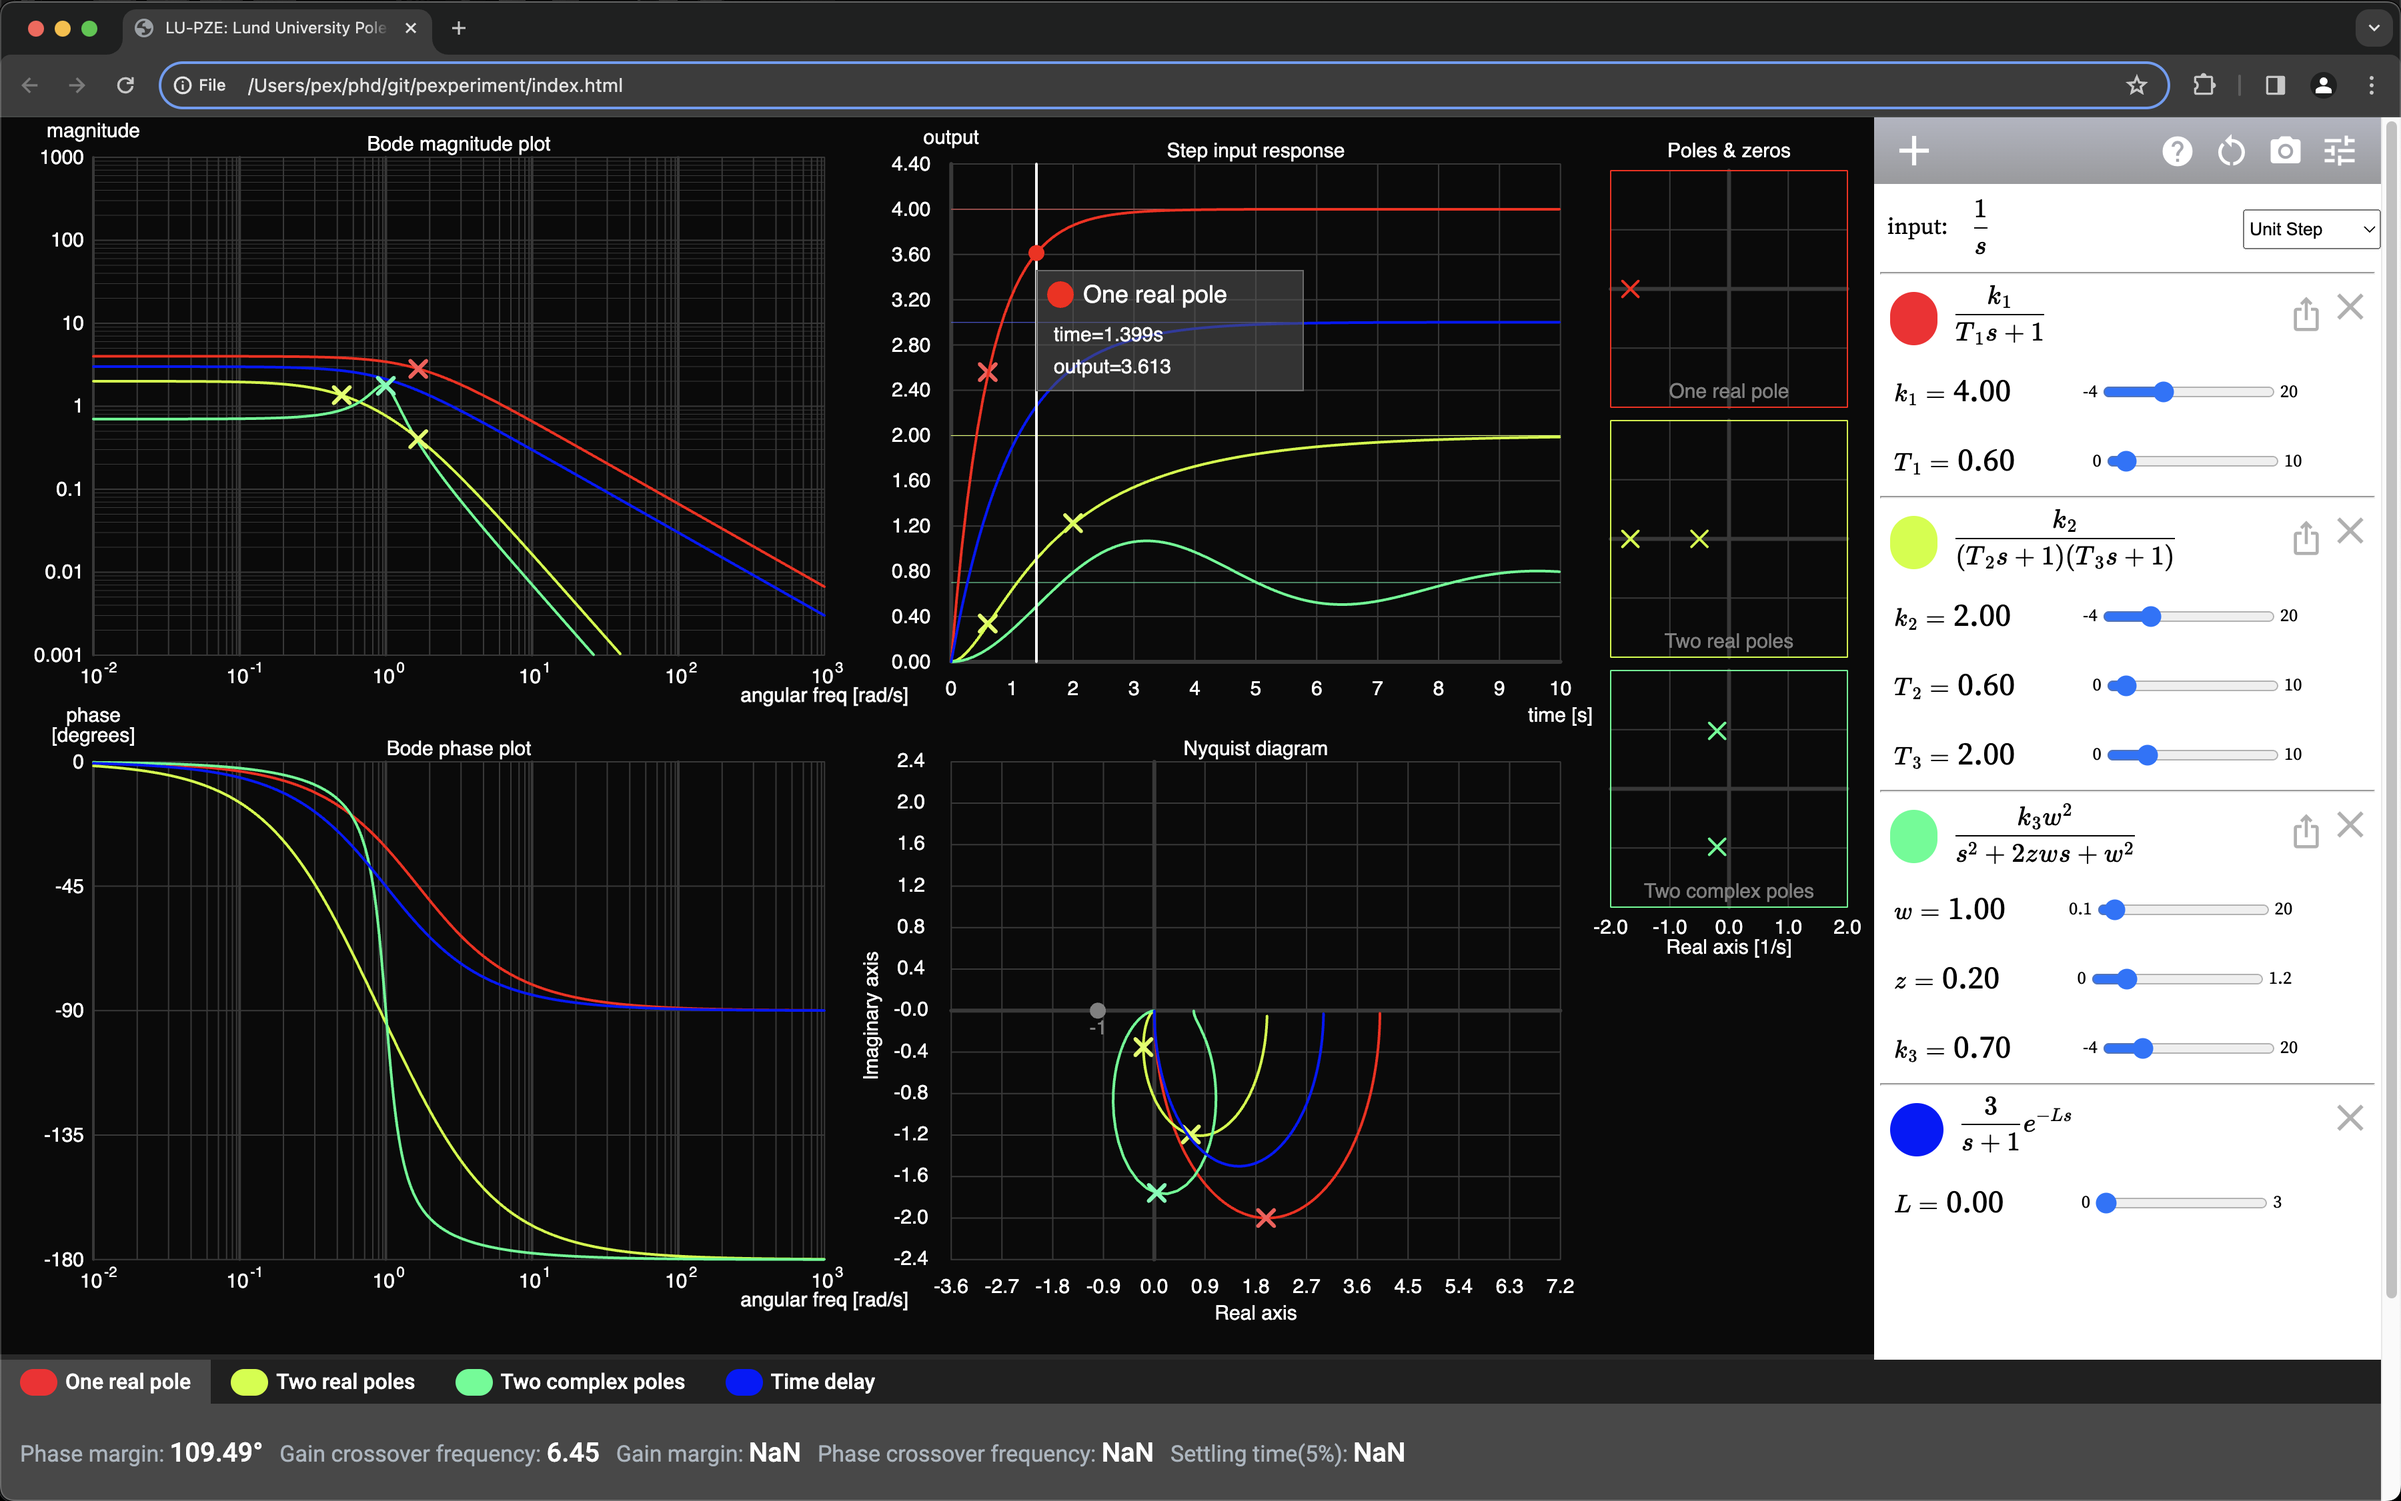
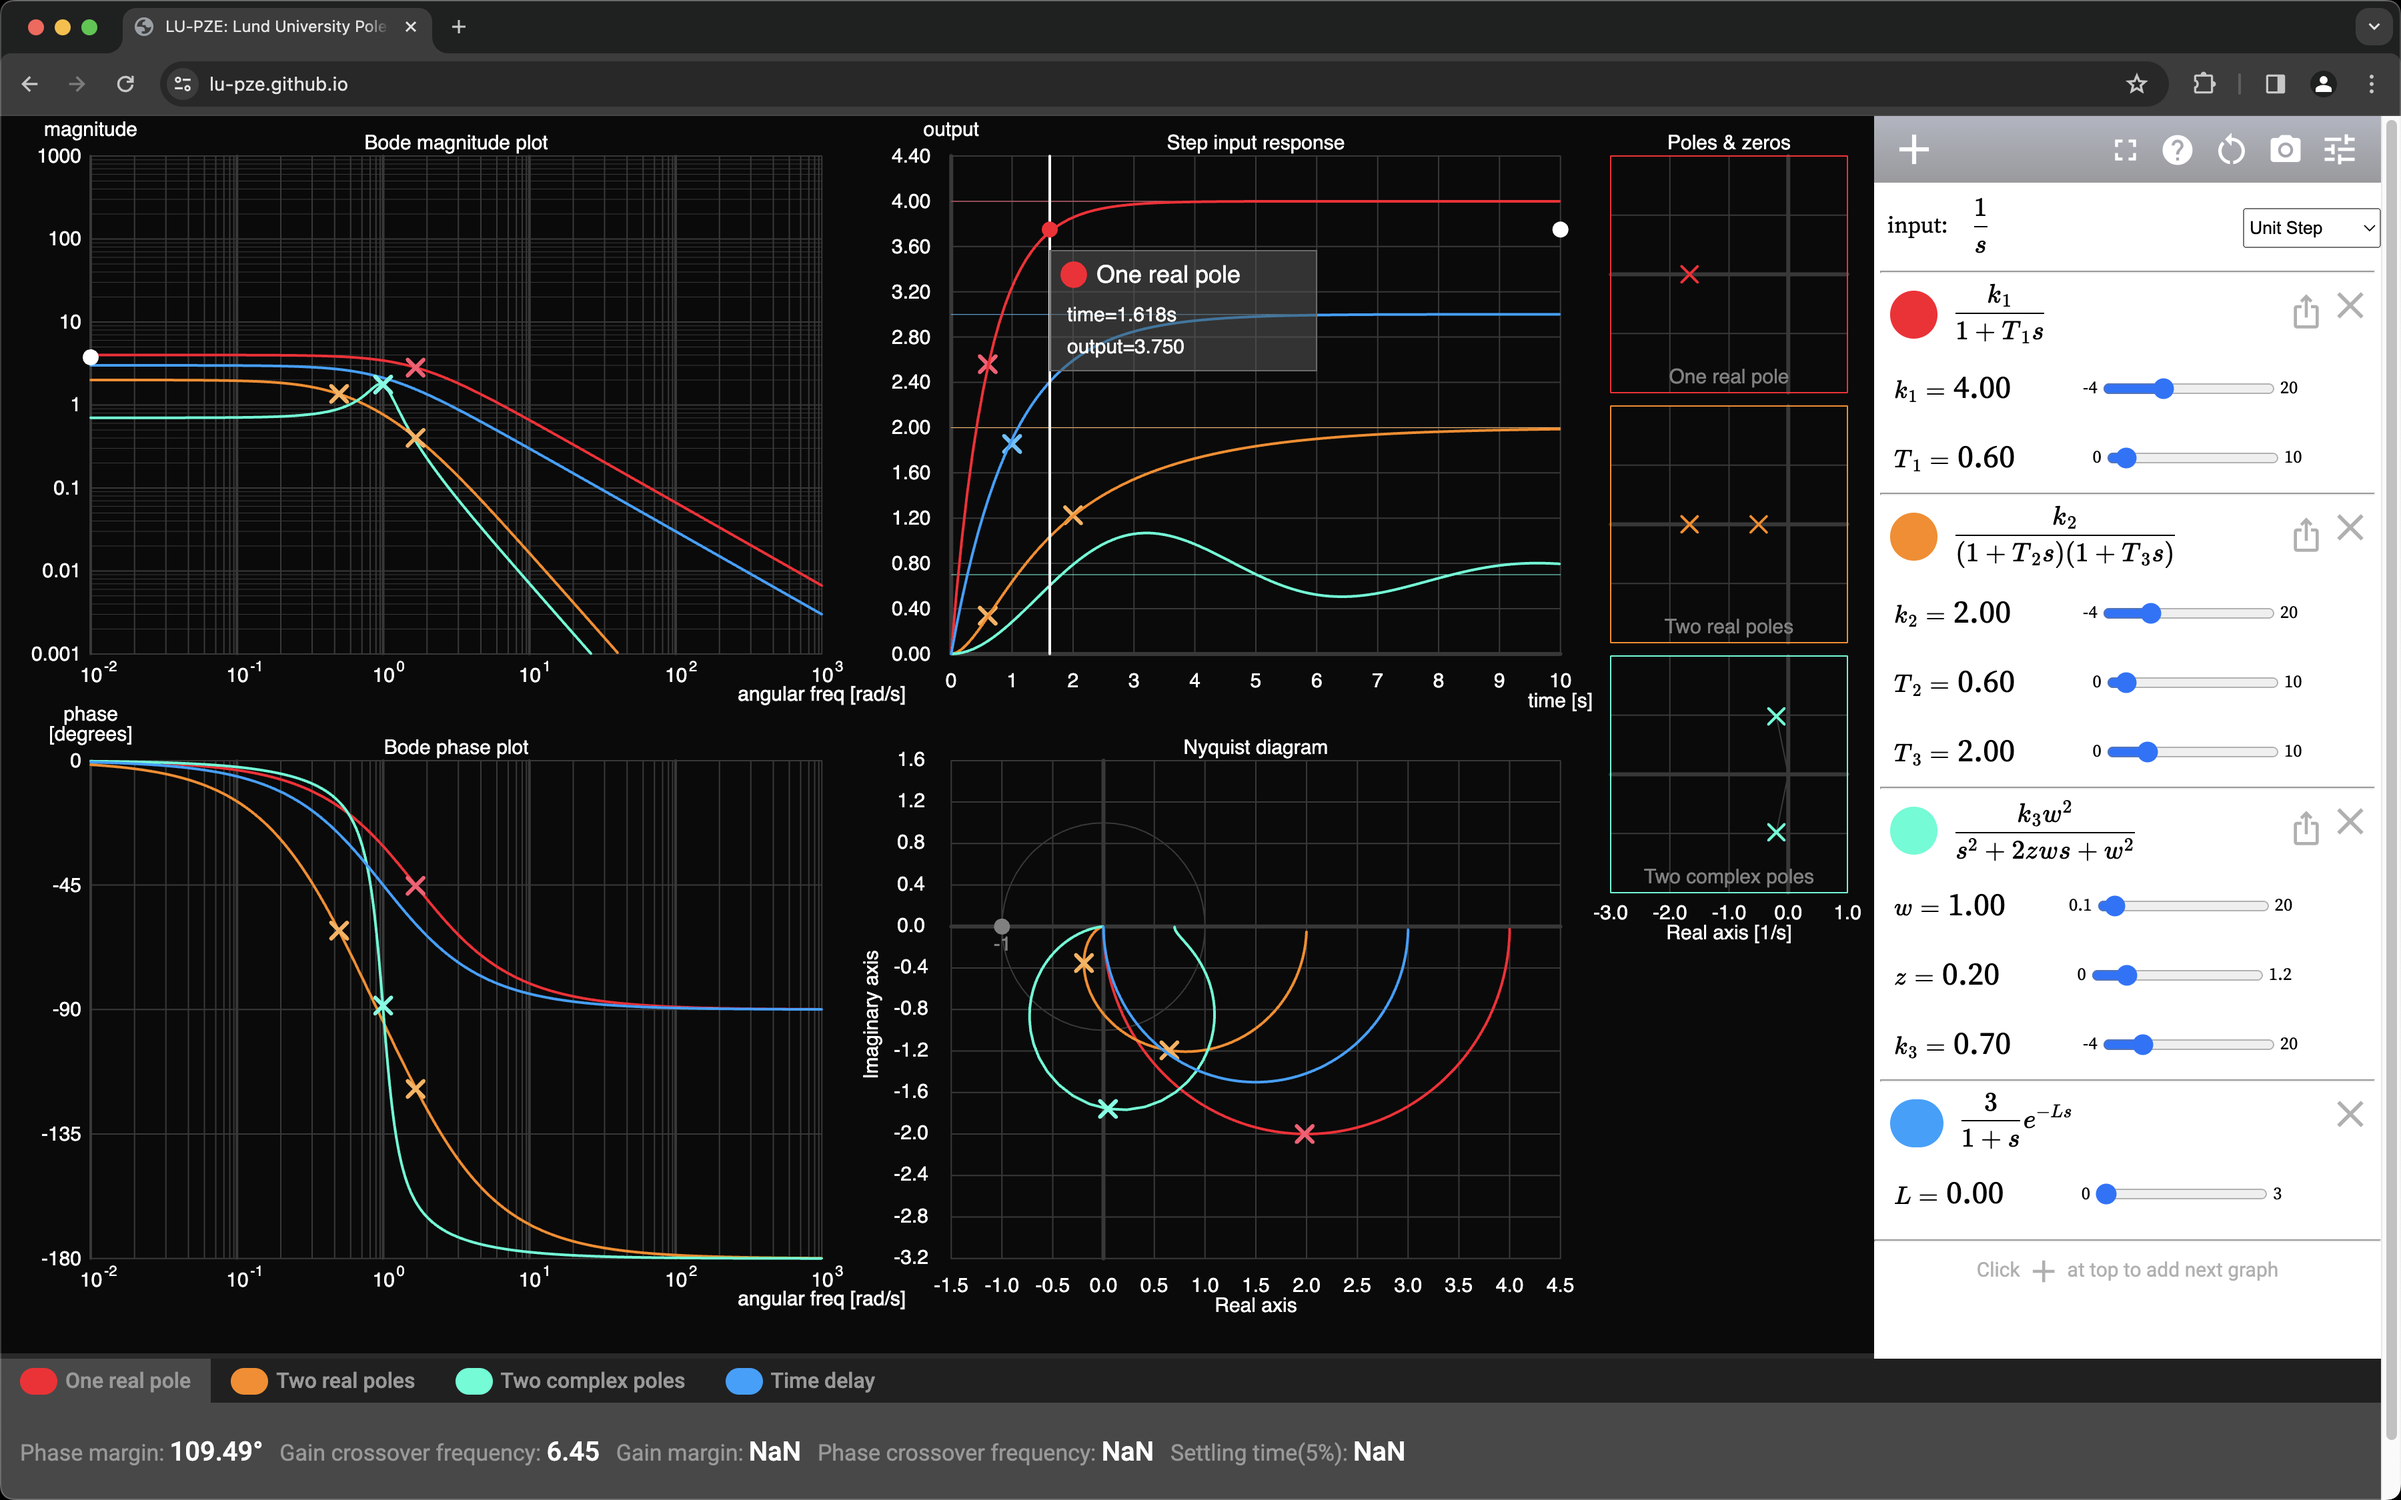
Updated screenshot and made default formulas more consistent

diff --git a/main.js b/main.js
@@ -41,8 +41,8 @@ const GRAPH_TWO_REAL_POLES = {name:"Two real poles", mf:"\\frac{k_2}{(1+T_2s)(1+
 const GRAPH_TWO_COMPLEX_POLES = {name:"Two complex poles", mf:"\\frac{k_3w^2}{s^2+2zws+w^2}", formula:"k_3*w^2/(s^2+2*z*w*s+w^2)"};
 const GRAPH_TIME_DELAY = {name:"Time delay", mf:"\\frac{3}{1+s}e^{-Ls}", formula:"3/(1+s)*e^(-L*s)"};
 const GRAPH_ONE_ZERO_TWO_POLES = {name:"One zero two poles", mf:"\\frac{k_4(1+T_8s)}{(1+T_6s)(1+T_7s)}", formula:"k_4(1+T_8s)/(1+T_6s)*1/(1+T_7s)"};
+const GRAPH_FOUR_POLES = {name:"Four poles", mf:"\\frac{1}{(1+T_5s)^4}", formula:"1/((1+T_5s)^4)"};
 const GRAPH_ONE_ZERO = {name:"One zero", mf:"T_4s+0.5", formula:"T_4*s+0.5"};
-const GRAPH_FOUR_POLES = {name:"Four poles", mf:"\\frac{1}{(T_5s+1)^4}", formula:"1/((T_5s+1)^4)"};
 
 const GRAPH_ORDER = [
   GRAPH_ONE_REAL_POLE,
